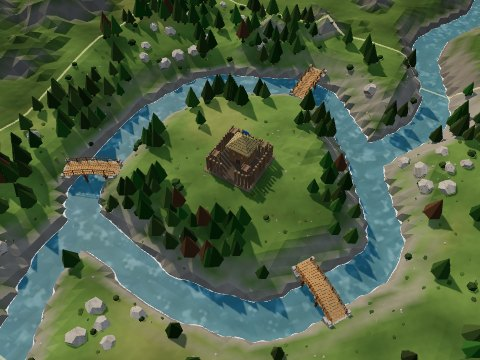
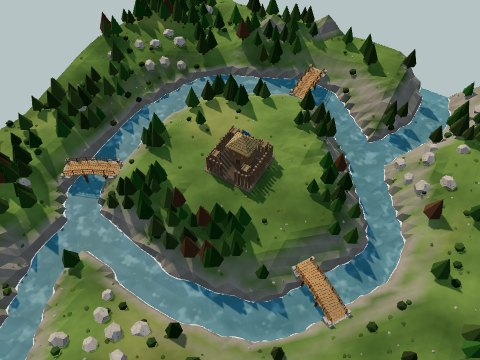
Drop the scenery skirt and boundary band; the map's sides are solid earth (and water where rivers run off)
Claude-Session: https://claude.ai/code/session_01AE8sRRsVdpH9ETfQvtppox

diff --git a/index.html b/index.html
@@ -604,19 +604,16 @@ terrainMat.onBeforeCompile = sh => {
 const terrain = new THREE.Mesh(tGeo, terrainMat);
 terrain.receiveShadow = true; scene.add(terrain);
 const waterMat = new THREE.MeshStandardMaterial({ color: '#3e6e7a', transparent: true, opacity: .85, roughness: .7, metalness: 0 });   // rough enough that low-angle views don't glare white
-const SKIRT = 50;   // scenery beyond the playable map on every side (see genSkirt); the water plane covers it too
-const water = new THREE.Mesh(new THREE.PlaneGeometry(SIZE + 2 * SKIRT, SIZE + 2 * SKIRT).rotateX(-Math.PI / 2).translate(SIZE / 2, 0, SIZE / 2), waterMat);
+const water = new THREE.Mesh(new THREE.PlaneGeometry(SIZE, SIZE).rotateX(-Math.PI / 2).translate(SIZE / 2, 0, SIZE / 2), waterMat);
 water.receiveShadow = true; scene.add(water);
 // flowing water: two layers of soft noise drift with the current (down the Meadow's river, round the isle's ring) and
 // lighten the surface in streaks; where the bed is shallow a band of broken foam laps at the bank. The bed's height comes
 // from a small texture of the heightmap (hTex, refreshed by syncTerrain).
-const HV = SIZE + 2 * SKIRT + 1, hData = new Uint8Array(HV * HV * 4), hTex = new THREE.DataTexture(hData, HV, HV, THREE.RGBAFormat);   // the bed under the map and its skirt
+const hData = new Uint8Array(V * V * 4), hTex = new THREE.DataTexture(hData, V, V, THREE.RGBAFormat);   // the bed under the water
 hTex.magFilter = hTex.minFilter = THREE.LinearFilter;
 const waterU = { uIsle: { value: 0 }, uC: { value: new THREE.Vector2() } };
-const outH = new Float32Array(HV * HV); let outHKey = '';
 function syncWaterTex() {
-  if (outHKey !== MAP) { outHKey = MAP; for (let j = 0; j < HV; j++) for (let i = 0; i < HV; i++) outH[j * HV + i] = genHeight(i - SKIRT, j - SKIRT); }   // the skirt never changes within a game
-  for (let j = 0; j < HV; j++) for (let i = 0; i < HV; i++) { const x = i - SKIRT, z = j - SKIRT, h = x >= 0 && z >= 0 && x <= SIZE && z <= SIZE ? H[idx(x, z)] : outH[j * HV + i]; hData[(j * HV + i) * 4] = clamp(Math.round((h + 3) / 6 * 255), 0, 255); }
+  for (let k = 0; k < V * V; k++) hData[k * 4] = clamp(Math.round((H[k] + 3) / 6 * 255), 0, 255);
   hTex.needsUpdate = true; waterU.uIsle.value = MAP === 'isle' ? 1 : 0; waterU.uC.value.set(KX, KZ);
 }
 waterMat.onBeforeCompile = sh => {
@@ -633,7 +630,7 @@ waterMat.onBeforeCompile = sh => {
       return p - vec2(0.0, uTime * .55 * k);
     }
     ` + sh.fragmentShader.replace('#include <color_fragment>', `#include <color_fragment>
-    float bed = texture2D(uH, (vWP.xz + ${SKIRT}.5) / ${HV}.0).r * 6.0 - 3.0, depth = -bed;
+    float bed = texture2D(uH, (vWP.xz + .5) / ${V}.0).r * 6.0 - 3.0, depth = -bed;
     vec2 q1 = flowAt(vWP.xz, 1.0), q2 = flowAt(vWP.xz, 1.6);
     float streak = smoothstep(.5, .85, wn(q1 * 1.1) * .55 + wn(q2 * 2.4) * .45), dark = smoothstep(.55, .2, wn(q2 * .7 + 3.1));
     diffuseColor.rgb *= .88 + .12 * dark;
@@ -661,61 +658,34 @@ function recolor() {
     tCol[k * 3] = tmpC.r; tCol[k * 3 + 1] = tmpC.g; tCol[k * 3 + 2] = tmpC.b;
   }
 }
-// ---------- the scenery skirt: land and forest beyond the playable map, so zooming out never shows the void ----------
-// One more terrain mesh, 1 m vertices from -SKIRT to SIZE + SKIRT, following genHeight (rivers and hills run on out of the
-// map). Its edge vertices take the map's own heights so the two meet without a seam; inside the map it sinks out of sight.
-// Nothing out here is part of the game: no cells, no building, no units.
-const SV = SIZE + 2 * SKIRT + 1, skPos = new Float32Array(SV * SV * 3), skCol = new Float32Array(SV * SV * 3), skIdx = [];
-for (let j = 0; j < SV - 1; j++) for (let i = 0; i < SV - 1; i++) { const a = j * SV + i, b = a + 1, c = a + SV, d = c + 1; skIdx.push(a, c, b, b, c, d); }
-const skGeo = new THREE.BufferGeometry();
-skGeo.setAttribute('position', new THREE.BufferAttribute(skPos, 3)); skGeo.setAttribute('color', new THREE.BufferAttribute(skCol, 3)); skGeo.setIndex(skIdx);
-const skirt = new THREE.Mesh(skGeo, terrainMat); skirt.receiveShadow = true; scene.add(skirt);
-// the edge of the buildable map: a pale band laid on the ground all round it (the land beyond is shaded darker too)
-const boundMat = new THREE.MeshBasicMaterial({ color: '#f3e3b0', transparent: true, opacity: .6, depthWrite: false, toneMapped: false, polygonOffset: true, polygonOffsetFactor: -6, polygonOffsetUnits: -6 });
-const boundary = new THREE.Mesh(new THREE.BufferGeometry(), boundMat); boundary.renderOrder = 2; scene.add(boundary);
-function buildBoundary() {
-  const pos = [], w = .28, y = (x, z) => Math.max(hAt(x, z), 0) + .07;
-  const strip = (ax, az, bx, bz, nx, nz) => {        // a band along one edge, nx/nz pointing inward
-    const L = Math.hypot(bx - ax, bz - az), n = Math.ceil(L / .5);
-    for (let i = 0; i < n; i++) {
-      const t0 = i / n, t1 = (i + 1) / n, x0 = lerp(ax, bx, t0), z0 = lerp(az, bz, t0), x1 = lerp(ax, bx, t1), z1 = lerp(az, bz, t1);
-      const p = [[x0, z0], [x1, z1], [x1 + nx * w, z1 + nz * w], [x0 + nx * w, z0 + nz * w]].map(([x, z]) => [x, y(x, z), z]);
-      pos.push(...p[0], ...p[2], ...p[1], ...p[0], ...p[3], ...p[2]);
+// ---------- the map's sides: solid earth from the ground's edge down, and water where a river runs off the edge ----------
+// so seen from a low angle the map is a block of land, not a paper-thin sheet
+const EDGE_BASE = -4;
+const edgeEarth = new THREE.Mesh(new THREE.BufferGeometry(), new THREE.MeshStandardMaterial({ vertexColors: true, flatShading: true, roughness: 1, side: THREE.DoubleSide }));
+const edgeWater = new THREE.Mesh(new THREE.BufferGeometry(), new THREE.MeshStandardMaterial({ color: '#3d6e86', transparent: true, opacity: .85, roughness: .7, side: THREE.DoubleSide }));
+edgeEarth.receiveShadow = true; scene.add(edgeEarth, edgeWater);
+function buildEdges() {
+  const ep = [], ec = [], wp = [], c = new THREE.Color();
+  // earth colour by depth below the rim: a grassy lip, then soil, darker and stonier further down
+  const col = (y, top, x, z) => { const d = top - y; c.set(d < .12 ? '#5f7a35' : d < 1.2 ? '#7a5d3e' : '#665241'); c.multiplyScalar(.9 + .2 * hash(x * 1.3 + y, z * .7 - y)); return [c.r, c.g, c.b]; };
+  const side = pts => {                       // pts: edge vertices [x, z] in order along one side
+    for (let i = 0; i < pts.length - 1; i++) {
+      const [x0, z0] = pts[i], [x1, z1] = pts[i + 1], h0 = H[idx(x0, z0)], h1 = H[idx(x1, z1)];
+      const q = [[x0, h0, z0], [x1, h1, z1], [x1, EDGE_BASE, z1], [x0, EDGE_BASE, z0]];
+      for (const k of [0, 1, 2, 0, 2, 3]) { ep.push(...q[k]); ec.push(...col(q[k][1], k === 1 || k === 2 ? h1 : h0, q[k][0], q[k][2])); }
+      if (h0 < 0 || h1 < 0) {                 // the river's cross-section where it leaves the map
+        const w = [[x0, Math.min(h0, 0), z0], [x1, Math.min(h1, 0), z1], [x1, 0, z1], [x0, 0, z0]];
+        for (const k of [0, 1, 2, 0, 2, 3]) wp.push(...w[k]);
+      }
     }
   };
-  const e = .05, S = SIZE - .05;
-  strip(e, e, S, e, 0, 1); strip(S, e, S, S, -1, 0); strip(S, S, e, S, 0, -1); strip(e, S, e, e, 1, 0);
-  boundary.geometry.dispose(); boundary.geometry = new THREE.BufferGeometry(); boundary.geometry.setAttribute('position', new THREE.Float32BufferAttribute(pos, 3));
-}
-const skTrunks = new THREE.InstancedMesh(new THREE.CylinderGeometry(.13, .18, .9, 5).translate(0, .45, 0), new THREE.MeshStandardMaterial({ color: '#4d3622', flatShading: true }), 3000);
-const skCrowns = new THREE.InstancedMesh(new THREE.ConeGeometry(.85, 2.3, 6).translate(0, 1.9, 0), new THREE.MeshStandardMaterial({ color: '#ffffff', flatShading: true }), 3000);
-skCrowns.instanceColor = new THREE.InstancedBufferAttribute(new Float32Array(3000 * 3), 3); skTrunks.count = skCrowns.count = 0;
-skTrunks.castShadow = skCrowns.castShadow = false;   // no shadows out here: thousands of shadow-casting trees halve the frame rate skTrunks.frustumCulled = skCrowns.frustumCulled = false; scene.add(skTrunks, skCrowns);   // r128 culls instances by the mesh origin
-function genSkirt() {
-  const inside = (x, z) => x > 0 && z > 0 && x < SIZE && z < SIZE, edge = (x, z) => x >= 0 && z >= 0 && x <= SIZE && z <= SIZE;
-  const hy = (x, z) => edge(x, z) ? H[idx(x, z)] : genHeight(x, z);
-  for (let j = 0; j < SV; j++) for (let i = 0; i < SV; i++) {
-    const k = j * SV + i, x = i - SKIRT, z = j - SKIRT, h = inside(x, z) ? H[idx(x, z)] - 4 : hy(x, z);
-    skPos[k * 3] = x; skPos[k * 3 + 1] = h; skPos[k * 3 + 2] = z;
-    const sl = Math.hypot(hy(x + 1, z) - hy(x - 1, z), hy(x, z + 1) - hy(x, z - 1)) / 2;
-    tmpC.copy(C.grass2).lerp(C.grass, clamp((fbm(x * .21 + 40, z * .21) - .25) * 2, 0, 1));
-    tmpC.lerp(C.dry, sstep(.55, .72, fbm(x * .09 + 70, z * .09 + 30)) * .4);
-    tmpC.lerp(C.sand, sstep(.8, .2, h)); tmpC.lerp(C.bed, sstep(-.1, -.8, h)); tmpC.lerp(C.rock, sstep(.55, 1.1, sl));
-    tmpC.multiplyScalar((.94 + .1 * hash(x * 1.7, z * 2.3)) * .72);   // shaded: not part of the game
-    skCol[k * 3] = tmpC.r; skCol[k * 3 + 1] = tmpC.g; skCol[k * 3 + 2] = tmpC.b;
+  const e = [...Array(SIZE + 1).keys()];
+  side(e.map(i => [i, 0])); side(e.map(i => [SIZE, i])); side(e.map(i => [SIZE - i, SIZE])); side(e.map(i => [0, SIZE - i]));
+  for (const [m, pos, cols] of [[edgeEarth, ep, ec], [edgeWater, wp, null]]) {
+    const g = new THREE.BufferGeometry(); g.setAttribute('position', new THREE.Float32BufferAttribute(pos, 3));
+    if (cols) g.setAttribute('color', new THREE.Float32BufferAttribute(cols, 3)); g.computeVertexNormals();
+    m.geometry.dispose(); m.geometry = g;
   }
-  skGeo.attributes.position.needsUpdate = skGeo.attributes.color.needsUpdate = true; skGeo.computeVertexNormals(); skGeo.computeBoundingSphere();
-  // forest beyond the map: denser than inside, thinning far out
-  let n = 0; const tc = new THREE.Color();
-  for (let z = -SKIRT + 1; z < SIZE + SKIRT - 1 && n < 3000; z += 2.5) for (let x = -SKIRT + 1; x < SIZE + SKIRT - 1 && n < 3000; x += 2.5) {
-    if (edge(x, z) || x > -1.5 && z > -1.5 && x < SIZE + 1.5 && z < SIZE + 1.5) continue;
-    const px = x + (hash(x, z) - .5) * 1.6, pz = z + (hash(z, x * 1.3) - .5) * 1.6, h = genHeight(px, pz), mask = fbm(px * .08 + 20, pz * .08 + 11);
-    if (h < 1 || mask < .38 || hash(px * 1.3, pz * .7) > (mask - .3) * 2.6) continue;
-    const s = .8 + hash(pz, px) * .6; dummy.position.set(px, h - .05, pz); dummy.rotation.set(0, hash(px, pz) * 6, 0); dummy.scale.set(s, s, s); dummy.updateMatrix();
-    skTrunks.setMatrixAt(n, dummy.matrix); skCrowns.setMatrixAt(n, dummy.matrix);
-    const r = hash(px * 3.3, pz * 1.1); tc.setHSL(.27 + (r - .5) * .07, .3 + r * .15, .16 + hash(pz, px * 2) * .09); skCrowns.setColorAt(n, tc); n++;
-  }
-  skTrunks.count = skCrowns.count = n; skTrunks.instanceMatrix.needsUpdate = skCrowns.instanceMatrix.needsUpdate = skCrowns.instanceColor.needsUpdate = true;
 }
 const gIdx = [];
 for (let n = 0; n <= N; n++) { const L = n * CELL; for (let s = 0; s < V - 1; s++) { gIdx.push(idx(s, L), idx(s + 1, L)); gIdx.push(idx(L, s), idx(L, s + 1)); } }
@@ -1161,7 +1131,7 @@ function doorCell(ev, type, f) {
 const doorOk = d => d.a >= 0 && d.b >= 0 && d.a < N && d.b < N && cellPass(d.b * N + d.a, 1);
 function syncTerrain() {
   for (let k = 0; k < V * V; k++) tPos[k * 3 + 1] = H[k];
-  tGeo.attributes.position.needsUpdate = true; cacheCells(); syncWaterTex();
+  tGeo.attributes.position.needsUpdate = true; cacheCells(); syncWaterTex(); buildEdges();
   recolor(); tGeo.attributes.color.needsUpdate = true; tGeo.computeBoundingSphere();
   tGeo.computeVertexNormals();   // the shadow lookup reads normals even with no normal bias; without them the ground received no shadows
   gIdx.forEach((k, n) => { gPos[n * 3 + 1] = H[k] + .06; }); gGeo.attributes.position.needsUpdate = true;
@@ -3783,7 +3753,7 @@ function startGame() {
   for (const p of puffs) scene.remove(p.sp); puffs.length = 0;
   PH = { kind: 'day', wave: 1, t: DAYLEN[0] }; econT = TICK; gameOver = false; light = 1; if (paused) setPaused(false); setMusic('day');
   if (MAP === 'isle') { KX = 27; KZ = 27; } else { KX = 19; KZ = 27; }
-  genTerrain(); genBridges(); genTrees(); genRocks(); genClutter(); syncTerrain(); genSkirt(); buildBoundary(); buildBridges(); genShore(); hideGhost(); deselect();
+  genTerrain(); genBridges(); genTrees(); genRocks(); genClutter(); syncTerrain(); buildBridges(); genShore(); hideGhost(); deselect();
   Object.assign(res, { gold: 40, wood: 45, stone: 0, food: 20 });
   stats = { slain: 0, lost: 0, fallen: 0, gold: 0, wood: 0, stone: 0, food: 0, built: 0, upgrades: 0, t0: performance.now() };
   $('#summary').hidden = true; $('#log').innerHTML = '';

diff --git a/CLAUDE.md b/CLAUDE.md
@@ -58,7 +58,7 @@ The whole game is currently one self-contained file: `index.html` (~165 KB, thre
 - **River isle**: the castle on a flat island inside a wobbly ring of river (`ISLE.r` 16.6 m, `isleR(angle)`), hills beyond the far bank. Two more rivers flow out of the ring to the map's edge, north-east and south-west (`isleOutN`/`isleOutS`, carved in `genHeight` outside the ring only), so the far bank is split in two. Three fixed, free timber footbridges at `ISLE_BRIDGES` (−90°, 30°, 150°), each radial (square across the ring). Bridges at any angle (`genBridges` from `bridgeRays`: march along a ray, the deck runs 1.4 m past the water at each end; a bridge is `x0, z0, dx, dz, L`, deck `DECK_W` 1.9; `bridgeT`/`bridgeW`/`onDeck`; `bridgeCell[n]` = index + 1 for every cell the deck touches, `b.ends` its end cells). `deckY(b, t)` arches the deck (`BRIDGE_RISE` .45); units stand at `walkY` (the deck inside its strip, else the ground) everywhere they are drawn; `cellPass` lets everyone path over bridge cells, `canStand` only on the deck strip; A* steps on and off a bridge only through its end cells, and waypoints in bridge cells are pulled onto the deck's centre line (`bridgeWaypoint`); raiders can't wade (`canStand` mode 2 needs h ≥ .3). Nothing can be built or pathed on a bridge ("Bridge"). Model: `makeBridge` (planks across the arch, two log stringers, trestles where it crosses water, log railings, grey stone landings), `buildBridges` after `syncTerrain`. Woods on the island (clear round the castle and along the way to each bridge), forest beyond the river; stone only beyond the river: three outcrops between the bridges (`ISLE_ROCKS`, `isleRockSite`, 7 rocks each) plus 16 scattered rocks, so masons either live by the castle and walk via a bridge or build out by the rocks, exposed.
 - Raiders route on the cell grid with `walkTo` (mode 2) toward a fixed point on their target's near side (`e.tp`, reset on each 3 s retarget), straight `steer` only within 3 m; a wall in the way (stuck or 3.5 s without progress) is attacked as before. Spawn points (`edgePoint`) must be walkable (`cellPass` mode 2) and have a route to the castle's door (a route to the castle's centre never exists: it is inside the building), else raiders spawned on steep edge hills stood stuck.
 - No building over a rock (`evaluate`: "Rocks"), so stone is never buried.
-- **Scenery skirt** (`SKIRT` 50 m, `genSkirt` at each start): a second terrain mesh with the map's material from −50 to SIZE + 50 following `genHeight` (rivers and hills run on out of the map; its edge takes the map's own heights; inside the map it sinks 4 m out of sight) and up to 3000 instanced trees (`skTrunks`/`skCrowns`, no shadows: they halved the frame rate). Nothing out there is part of the game: its land is shaded darker (×.72), and a pale band (`boundary`, `buildBoundary`, .28 m wide, laid on the ground or the water) marks the buildable map's edge. The water plane and the water's bed texture (`hTex`, `HV`, outside heights cached per map in `outH`) cover it too.
+- **Map sides** (`buildEdges`, from `syncTerrain`): solid earth walls from the ground's edge down to `EDGE_BASE` −4 (vertex-coloured: grassy lip, soil, darker below) and a water cross-section where a river runs off the edge, so the map reads as a block of land from low angles. (A 50 m scenery skirt beyond the map was tried and dropped.)
 - Ledges: bridges are entered and left only at their ends, along the deck (`findPath` refuses moves onto or off a bridge except through its end cells); `steer`, `clearLine` and `separateUnits` refuse a move that changes `walkY` by more than a step's worth (≈.2–.35 m), so nobody hops up onto a deck from the side. `clearLine` shortcuts may touch a bridge cell only when both ends are on that bridge, so the path's waypoint lined up with the bridge's end is never skipped (raiders used to cut in from the side and stall on the bank below the deck). A raider held up in a crowd (another raider within 1.3 m, e.g. queueing for a bridge) waits instead of taking the random 5 m detour, which scattered queues onto the riverbank.
 - Progress for give-ups is measured along the planned path (`pathLeft` in `trackProgress`), so a detour (round to a bridge) isn't mistaken for being stuck.
 - Selecting a castle or archer tower draws its archers' range (`rangeLine`, `syncRange` from `refreshCard`).
